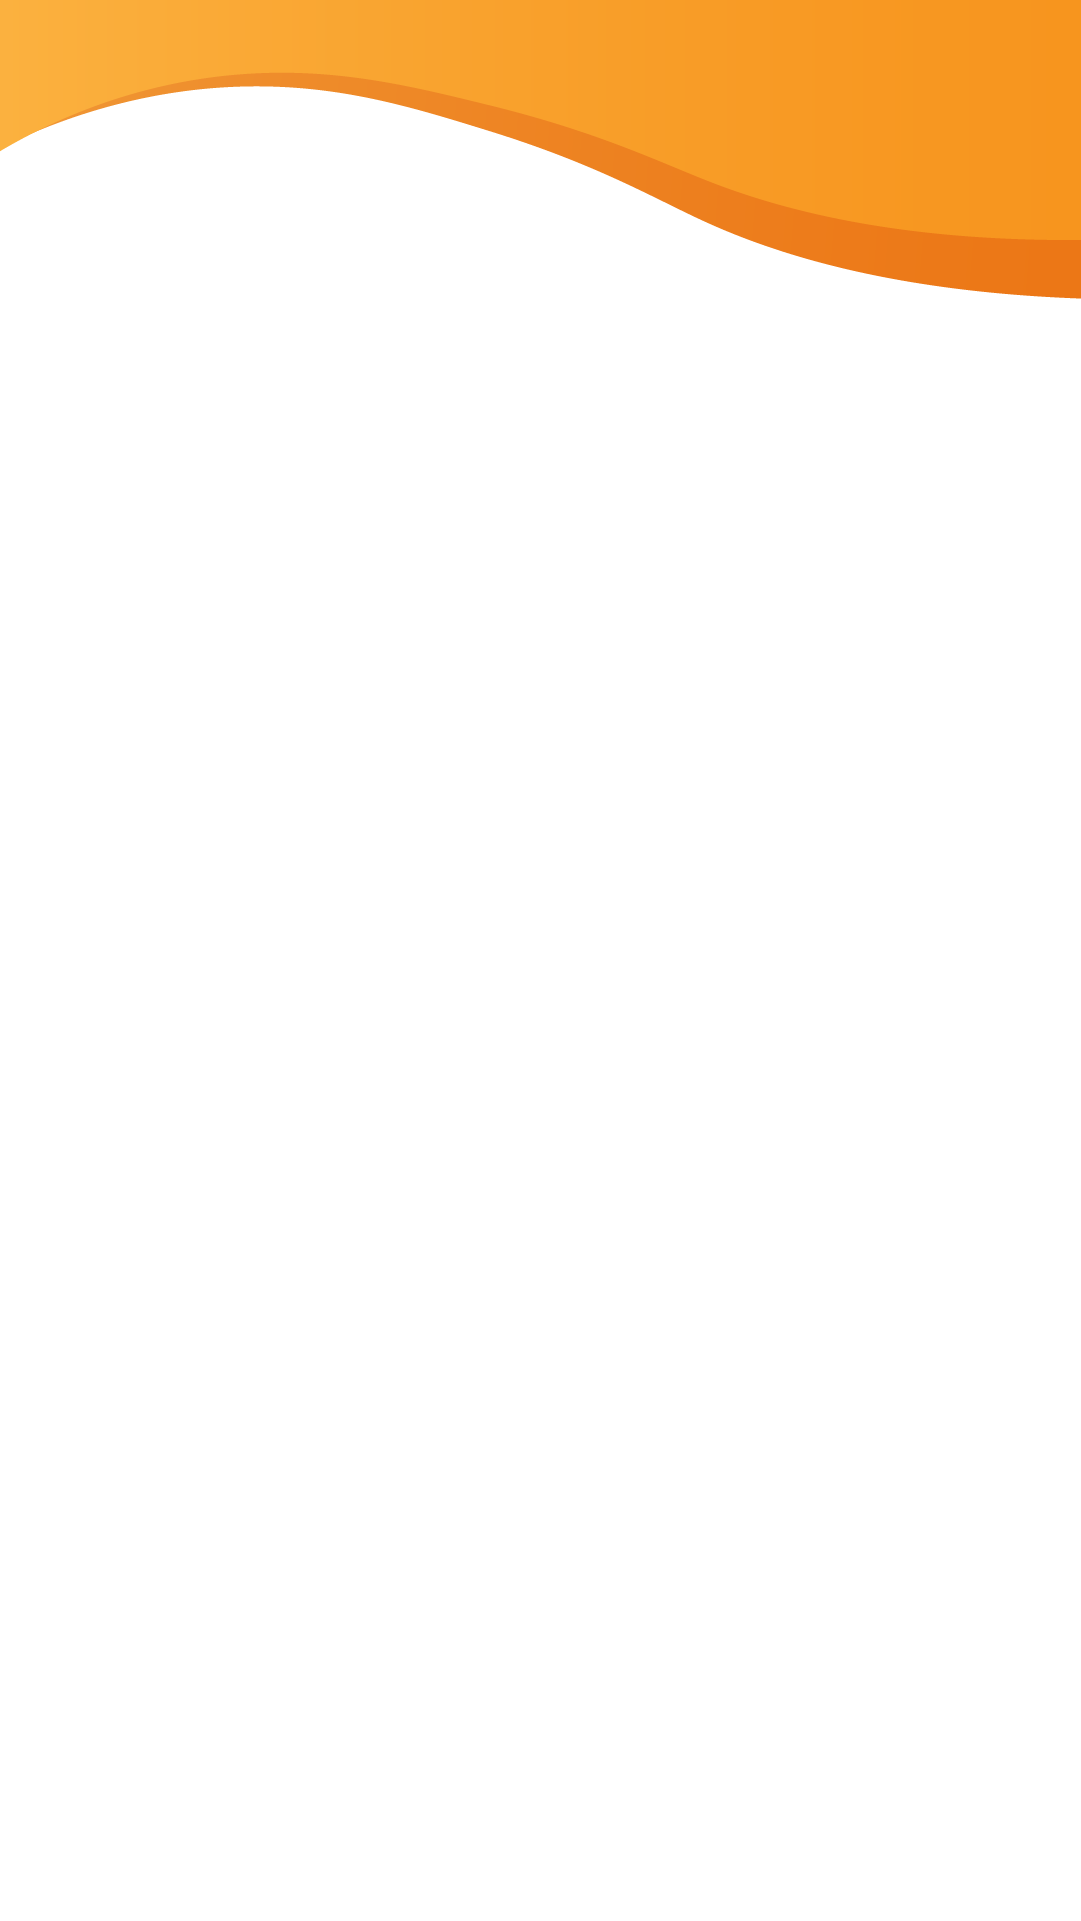
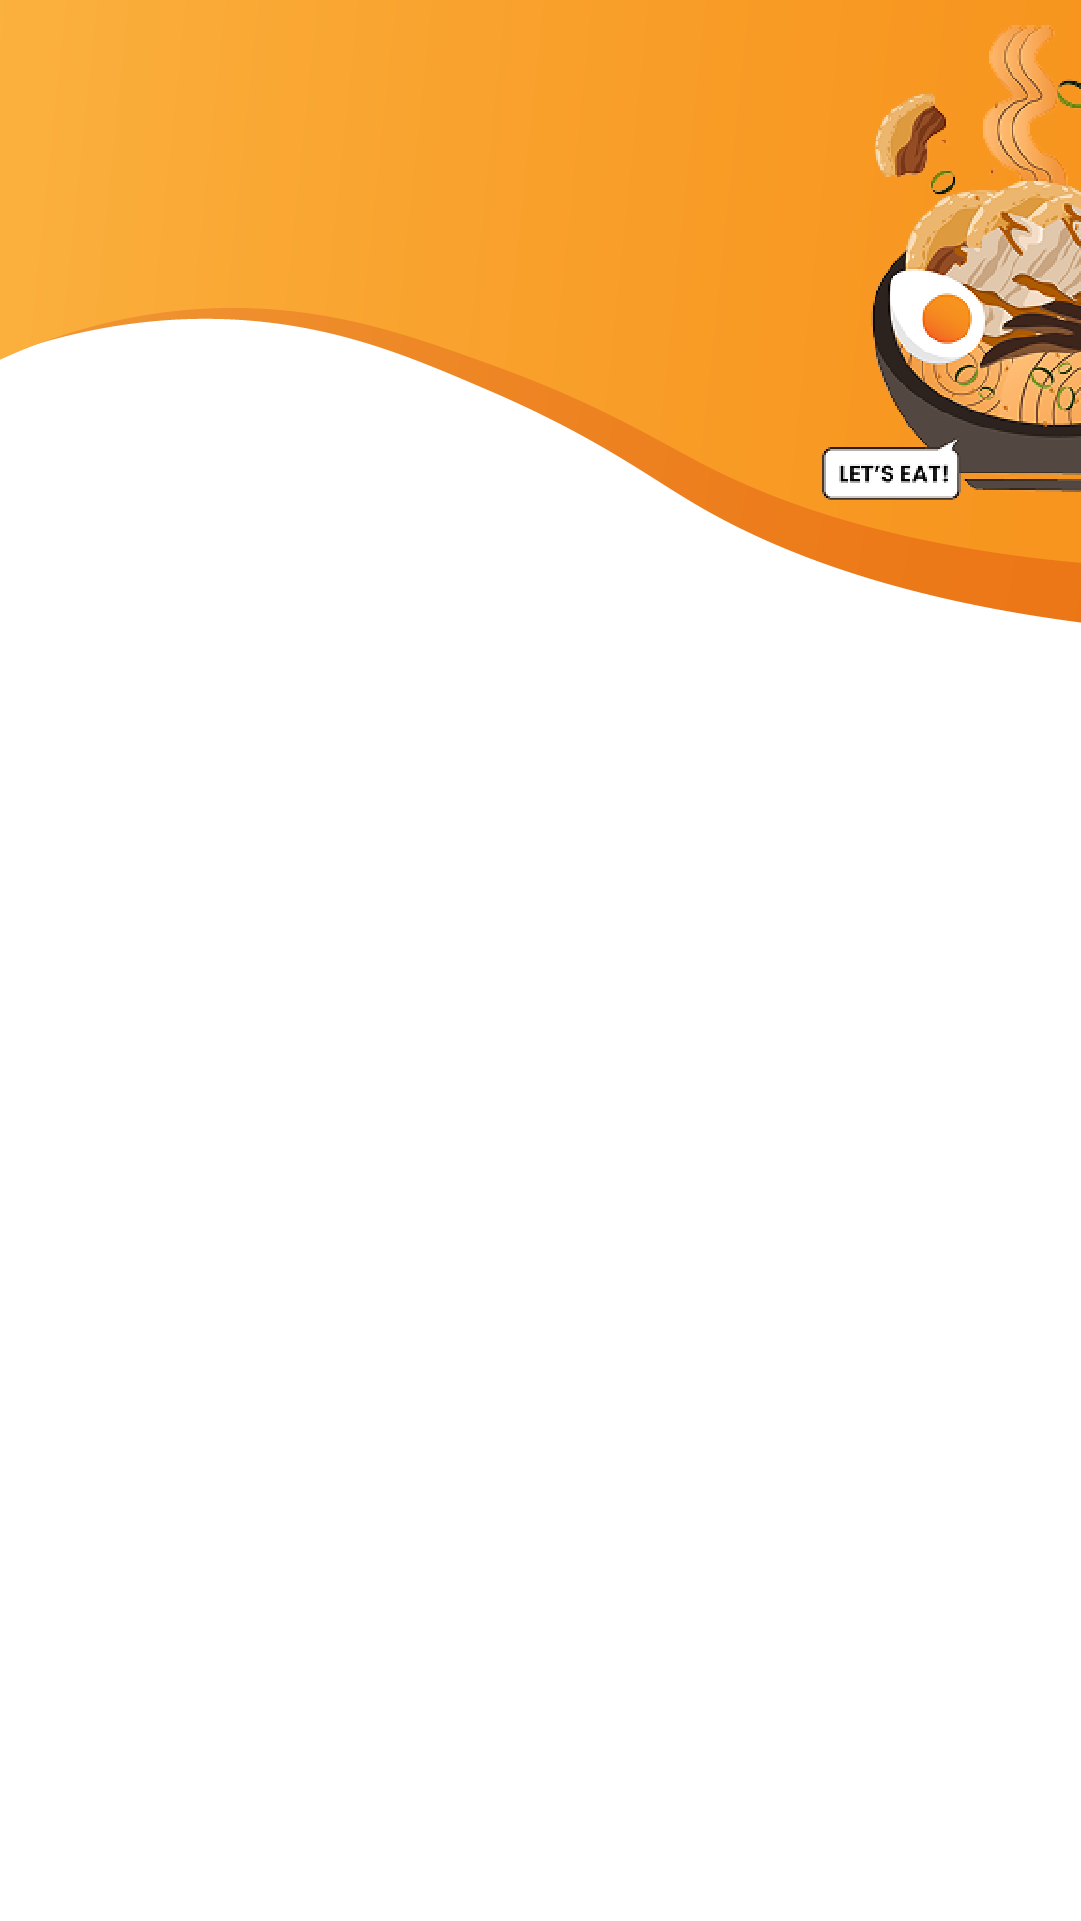
updated: login, signin, profile settings added: startscreen

Changed region(s): [[0.0, 0.0, 1.0, 0.3436]]

diff --git a/lib/pages/signin.dart b/lib/pages/signin.dart
@@ -1,17 +1,18 @@
 import 'package:flutter/material.dart';
 import 'package:gastro_nameet/layouts/main_bottom_nav_bar.dart';
-import 'package:gastro_nameet/pages/signin.dart';
+import 'package:gastro_nameet/pages/startscreen.dart';
 
-class login extends StatefulWidget {
-  const login({super.key});
+class signin extends StatefulWidget {
+  const signin({super.key});
 
   @override
-  State<login> createState() => _loginState();
+  State<signin> createState() => _signinState();
 }
 
-class _loginState extends State<login> {
+class _signinState extends State<signin> {
   final _emailController = TextEditingController();
   final _passwordController = TextEditingController();
+  final _nameController = TextEditingController();
 
   @override
   Widget build(BuildContext context) {
@@ -19,18 +20,24 @@ class _loginState extends State<login> {
       body: Stack(
         children: [
           // Background image
-          Positioned(
+          Positioned.fill(
             child: Image.asset(
-              'assets/images/login_bg.png',
+              'assets/images/signin_bg.png',
               fit: BoxFit.cover,
             ),
           ),
           SingleChildScrollView(
             child: Padding(
-              padding: const EdgeInsets.only(top: 200),
+              padding: const EdgeInsets.only(top: 100),
               child: Column(
                 mainAxisSize: MainAxisSize.min,
                 children: [
+                  Image(
+                    image: AssetImage('assets/images/batchoy_welcome.png'),
+                    width: 120,
+                    height: 120,
+                  ),
+                  SizedBox(height: 10),
                   Text(
                     'Maayong Adlaw!',
                     style: TextStyle(
@@ -43,7 +50,7 @@ class _loginState extends State<login> {
                   Padding(
                     padding: const EdgeInsets.only(top: 0, bottom: 3),
                     child: Text(
-                      'LOG IN',
+                      'SIGN UP',
                       style: TextStyle(
                         fontFamily: 'Talina',
                         height: 1,
@@ -54,13 +61,48 @@ class _loginState extends State<login> {
                     ),
                   ),
                   Text(
-                    'Press Log In to continue',
+                    'Press Sign Up to continue',
                     style: TextStyle(
                       fontFamily: 'Poppins',
                       height: 1,
                       fontSize: 10,
                       fontWeight: FontWeight.w300,
                       color: Color.fromARGB(255, 166, 166, 166),
+                    ),
+                  ),
+                  Padding(
+                    padding: const EdgeInsets.only(
+                        left: 30.0, right: 30.0, top: 20, bottom: 0),
+                    child: Focus(
+                      child: Builder(
+                        builder: (context) {
+                          final hasFocus = Focus.of(context).hasFocus;
+                          return TextFormField(
+                            controller: _nameController,
+                            obscureText: false,
+                            decoration: InputDecoration(
+                              contentPadding:
+                                  EdgeInsets.symmetric(vertical: 1, horizontal: 10),
+                              hintText: "Name",
+                              labelText: "Name",
+                              hintStyle: TextStyle(
+                                  fontSize: 12,
+                                  color: const Color.fromARGB(255, 208, 208, 208)),
+                              border: OutlineInputBorder(
+                                borderRadius: BorderRadius.circular(20),
+                              ),
+                              focusedBorder: OutlineInputBorder(
+                                borderRadius: BorderRadius.circular(20),
+                                borderSide: BorderSide(color: Color(0xFFF7941D)),
+                              ),
+                              labelStyle: TextStyle(
+                                fontSize: 12,
+                                color: hasFocus ? Color(0xFFF7941D) : null,
+                              ),
+                            ),
+                          );
+                        },
+                      ),
                     ),
                   ),
                   Padding(
@@ -146,7 +188,7 @@ class _loginState extends State<login> {
                           ),
                         );
                       },
-                      child: Text("Log In", style: TextStyle(color: Colors.white)),
+                      child: Text("Sign up", style: TextStyle(color: Colors.white)),
                       style: ElevatedButton.styleFrom(
                         minimumSize: const Size.fromHeight(50),
                         backgroundColor: Color(0xFFF7941D),
@@ -169,12 +211,12 @@ class _loginState extends State<login> {
                         Navigator.push(
                           context,
                           MaterialPageRoute(
-                            builder: (context) => const signin(),
+                            builder: (context) => const start(),
                           ),
                         );
                       },
                       child:
-                      Text("Sign in to another account", style: TextStyle(color: Colors.white)),
+                      Text("< Go Back", style: TextStyle(color: Colors.white)),
                       style: ElevatedButton.styleFrom(
                         minimumSize: const Size.fromHeight(50),
                         backgroundColor: Color.fromARGB(255, 153, 151, 148),

diff --git a/lib/pages/startscreen.dart b/lib/pages/startscreen.dart
@@ -1,0 +1,133 @@
+import 'package:flutter/material.dart';
+import 'package:gastro_nameet/pages/signin.dart';
+import 'package:gastro_nameet/pages/loginstart.dart';
+
+class start extends StatefulWidget {
+  const start({super.key});
+
+  @override
+  State<start> createState() => _startState();
+}
+
+class _startState extends State<start> {
+  @override
+  Widget build(BuildContext context) {
+    return Scaffold(
+      body: Stack(
+        children: [
+          // Background image
+          Container(
+            decoration: const BoxDecoration(
+              image: DecorationImage(
+                image: AssetImage('assets/images/startscreen_bg.png'),
+                fit: BoxFit.cover,
+              ),
+            ),
+          ),
+          // Buttons at the bottom
+          Positioned(
+            bottom: 0,
+            left: 0,
+            right: 0,
+            child: Column(
+              mainAxisSize: MainAxisSize.min,
+              children: [
+              Text(
+                    'Maayong Adlaw!',
+                    style: TextStyle(
+                      fontFamily: 'Talina',
+                      height: 1,
+                      fontSize: 18,
+                      color: Color(0xFFBC6600),
+                    ),
+                  ),
+                  Padding(
+                    padding: const EdgeInsets.only(top: 10, bottom: 3),
+                    child: Text(
+                      'This is Gastro Nameet',
+                      style: TextStyle(
+                        fontFamily: 'Talina',
+                        height: 1,
+                        fontSize: 20,
+                        fontWeight: FontWeight.w500,
+                        color: Color(0xFFFAAD3B),
+                      ),
+                    ),
+                  ),
+                  Text(
+                    'Craving something authentic?',
+                    style: TextStyle(
+                      fontFamily: 'Poppins',
+                      height: 1,
+                      fontSize: 10,
+                      fontWeight: FontWeight.w300,
+                      color: Color.fromARGB(255, 166, 166, 166),
+                    ),
+                  ),
+                  SizedBox(height: 10),
+                  Image(
+                    image: AssetImage('assets/images/batchoy_welcome.png'),
+                    width: 200,
+                    height: 200,
+                  ),
+                  SizedBox(height: 100),
+                Padding(
+                  padding: const EdgeInsets.only(
+                      left: 30.0, right: 30.0, top: 0, bottom: 30),
+                  child: ElevatedButton(
+                    onPressed: () {
+                      Navigator.push(
+                        context,
+                        MaterialPageRoute(
+                          builder: (context) => const loginstart(),
+                        ),
+                      );
+                    },
+                    child: Text("Log In", style: TextStyle(color: Colors.white)),
+                    style: ElevatedButton.styleFrom(
+                      minimumSize: const Size.fromHeight(50),
+                      backgroundColor: Color(0xFFF7941D),
+                      textStyle: TextStyle(
+                          fontSize: 15,
+                          fontWeight: FontWeight.bold,
+                          color: Colors.white),
+                      shape: RoundedRectangleBorder(
+                        borderRadius: BorderRadius.circular(20),
+                      ),
+                    ),
+                  ),
+                ),
+                Padding(
+                  padding: const EdgeInsets.only(
+                      left: 30.0, right: 30.0, top: 0, bottom: 30),
+                  child: ElevatedButton(
+                    onPressed: () {
+                      Navigator.push(
+                        context,
+                        MaterialPageRoute(
+                          builder: (context) => const signin(),
+                        ),
+                      );
+                    },
+                    child: Text("Get Started", style: TextStyle(color: Colors.white)),
+                    style: ElevatedButton.styleFrom(
+                      minimumSize: const Size.fromHeight(50),
+                      backgroundColor: Color.fromARGB(255, 239, 117, 17),
+                      textStyle: TextStyle(
+                          fontSize: 15,
+                          fontWeight: FontWeight.bold,
+                          color: Colors.white),
+                      shape: RoundedRectangleBorder(
+                        borderRadius: BorderRadius.circular(20),
+                      ),
+                    ),
+                  ),
+                ),
+              ],
+            ),
+          ),
+        ],
+      ),
+    );
+  }
+}

diff --git a/lib/pages/loginstart.dart b/lib/pages/loginstart.dart
@@ -1,15 +1,15 @@
 import 'package:flutter/material.dart';
 import 'package:gastro_nameet/layouts/main_bottom_nav_bar.dart';
-import 'package:gastro_nameet/pages/signin.dart';
+import 'package:gastro_nameet/pages/startscreen.dart';
 
-class login extends StatefulWidget {
-  const login({super.key});
+class loginstart extends StatefulWidget {
+  const loginstart({super.key});
 
   @override
-  State<login> createState() => _loginState();
+  State<loginstart> createState() => _loginstartState();
 }
 
-class _loginState extends State<login> {
+class _loginstartState extends State<loginstart> {
   final _emailController = TextEditingController();
   final _passwordController = TextEditingController();
 
@@ -169,12 +169,12 @@ class _loginState extends State<login> {
                         Navigator.push(
                           context,
                           MaterialPageRoute(
-                            builder: (context) => const signin(),
+                            builder: (context) => const start(),
                           ),
                         );
                       },
                       child:
-                      Text("Sign in to another account", style: TextStyle(color: Colors.white)),
+                      Text("< Go Back", style: TextStyle(color: Colors.white)),
                       style: ElevatedButton.styleFrom(
                         minimumSize: const Size.fromHeight(50),
                         backgroundColor: Color.fromARGB(255, 153, 151, 148),

diff --git a/lib/main.dart b/lib/main.dart
@@ -1,5 +1,5 @@
 import 'package:flutter/material.dart';
-import 'package:gastro_nameet/pages/login.dart';
+import 'package:gastro_nameet/pages/startscreen.dart';
 
 void main() {
   runApp(const MyApp());
@@ -16,14 +16,14 @@ class MyApp extends StatelessWidget {
       title: 'Gastronameet',
       theme: ThemeData(
         colorScheme: ColorScheme.fromSeed(
-          seedColor: const Color.fromARGB(255, 184, 168, 149),
+          seedColor: const Color.fromARGB(255, 255, 255, 255),
         ),
         useMaterial3: true,
         splashColor: Colors.transparent,
         highlightColor: Colors.transparent,
         splashFactory: NoSplash.splashFactory,
       ),
-      home: const login(), // this redirects the nav screen
+      home: const start(), // this redirects the nav screen
     );
   }
 }

diff --git a/lib/pages/profile_settings.dart b/lib/pages/profile_settings.dart
@@ -34,8 +34,6 @@ class _ProfilePageState extends State<ProfilePage> {
             left: 25.0, right: 25.0, top: 40, bottom: 0),
           child: ElevatedButton(
             onPressed: () async {
-              // TODO: perform logout actions here (clear tokens, session, etc.)
-              // Navigate to the login screen and remove all previous routes
               Navigator.of(context).pushAndRemoveUntil(
                 MaterialPageRoute(builder: (context) => const login()),
                 (route) => false,
